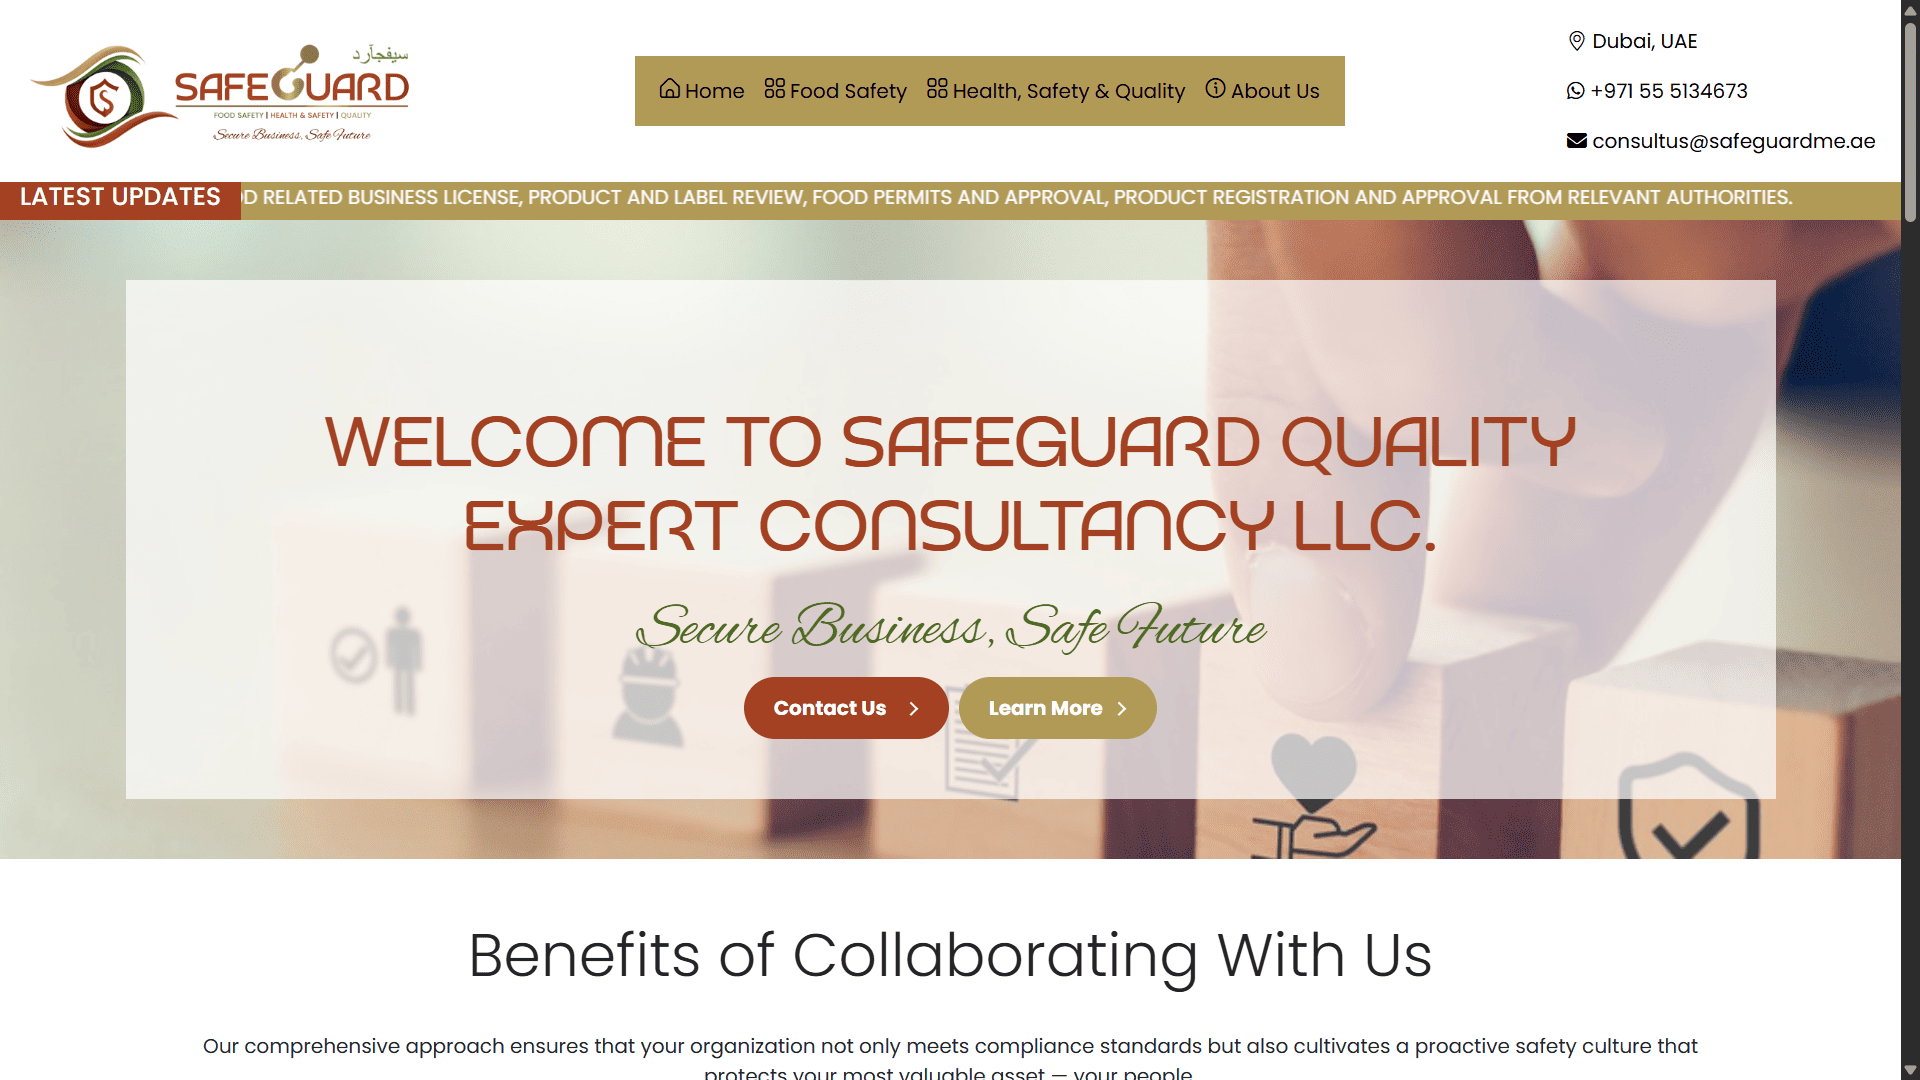
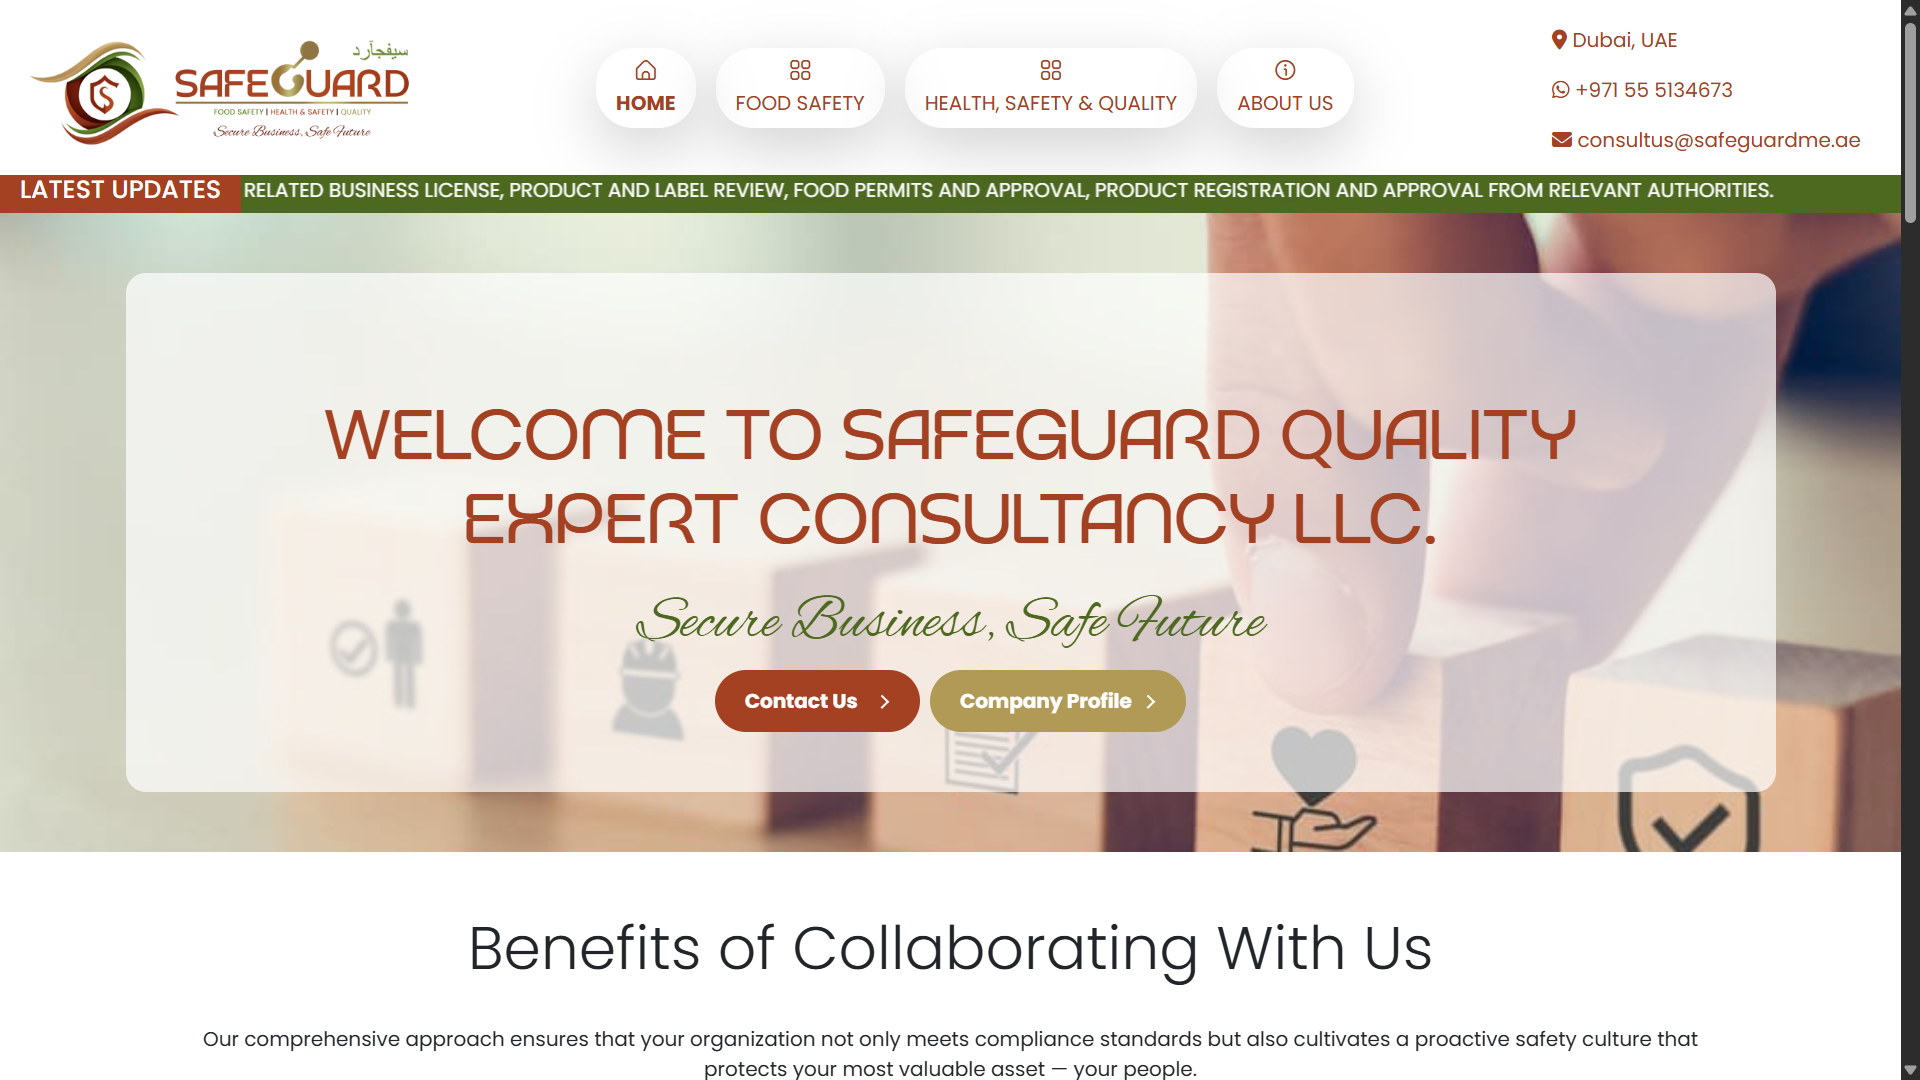
latest commit
-added freelance section
-updated projects
-removed AOS delays
-added new image for safeguard project
-added active scroll class
-updated active scroll class styling

diff --git a/index.html b/index.html
@@ -28,7 +28,7 @@
           <div class="collapse navbar-collapse" id="navbarText">
             <ul class="navbar-nav mb-2 mb-lg-0">
               <li class="nav-item px-1">
-                <a class="nav-link fs-5 fw-bold px-3" aria-current="page" href="#home-section">Home</a>
+                <a class="nav-link fs-5 fw-bold px-3 shadow-lg" aria-current="page" href="#home-section">Home</a>
               </li>
               <li class="nav-item px-1">
                 <a class="nav-link fs-5 fw-bold px-3" aria-current="page" href="#about-section">About</a>
@@ -45,6 +45,7 @@
       </nav>
     </header>
   </section>
+  <div data-bs-spy="scroll" data-bs-smooth-scroll="true" tabindex="0">
   <section id="home-section" class="py-5">
     <main>
       <div class="container px-4 py-5">
@@ -74,7 +75,7 @@
         </div>
         <div class="row text-center row-cols-1 row-cols-sm-2 row-cols-xl-4 g-4 m-0">
           <div class="col">
-            <div class="card h-100" data-aos="fade-up" data-aos-delay="0">
+            <div class="card h-100" data-aos="fade-up">
               <div class="card-body">
                 <i class="bi bi-phone-fill display-6"></i>
                 <h5 class="card-title">Responsive Design</h5>
@@ -84,7 +85,7 @@
             </div>
           </div>
           <div class="col">
-            <div class="card h-100" data-aos="fade-up" data-aos-delay="100">
+            <div class="card h-100" data-aos="fade-up">
               <div class="card-body">
                 <i class="bi bi-code-slash display-6"></i>
                 <h5 class="card-title">Frontend Development</h5>
@@ -93,7 +94,7 @@
             </div>
           </div>
           <div class="col">
-            <div class="card h-100" data-aos="fade-up" data-aos-delay="200">
+            <div class="card h-100" data-aos="fade-up">
               <div class="card-body">
                 <i class="bi bi-git display-6"></i>
                 <h5 class="card-title">Version Control</h5>
@@ -102,7 +103,7 @@
             </div>
           </div>
           <div class="col">
-            <div class="card h-100" data-aos="fade-up" data-aos-delay="300">
+            <div class="card h-100" data-aos="fade-up">
               <div class="card-body">
                 <i class="bi bi-people-fill display-6"></i>
                 <h5 class="card-title">Team Collaboration</h5>
@@ -133,6 +134,52 @@
       </div>
     </main>
   </section>
+  <section id="projects-section freelance-section" class="py-5">
+    <main>
+      <div class="container px-4 py-5" data-aos="fade-up">
+        <div class="row text-center m-0">
+          <h2 class="section-head display-6 fw-bold">Freelance Works</h2>
+        </div>
+        <div class="row row-cols-1 row-cols-md-2 row-cols-xl-3 g-4 m-0">
+          <div class="col">
+            <div class="card project-card freelance-card h-100" data-aos="fade-up">
+              <div class="card-img-wrapper">
+                <img src="./imgs/safeguard.png" class="card-img-top" alt="safeguard-landing-page">
+                <a href="https://safeguardme.ae" class="live-link-btn">View Live</a>
+              </div>
+              <div class="card-body">
+                <h5 class="card-title">Safeguard Quality Expert Consultancy LLC.</h5>
+                <p class="card-text">Website design for a consultancy firm (Food Safety and Health & Safety) based in Dubai, U.A.E.</p>
+                <!-- <div class="d-flex flex-wrap gap-2">
+                  <span class="badge">HTML</span>
+                  <span class="badge">CSS (Bootstrap)</span>
+                  <span class="badge">JavaScript</span>
+                </div> -->
+              </div>
+            </div>
+          </div>
+          <div class="col">
+            <div class="card project-card freelance-card h-100" data-aos="fade-up">
+              <div class="card-img-wrapper">
+                <img src="./imgs/twelvetotwelve.png" class="card-img-top" alt="12-to-12-landing-page">
+                <a href="https://levinmathewabraham.github.io/12-To-12-DownTown/" class="live-link-btn">View Live</a>
+              </div>
+              <div class="card-body">
+                <h5 class="card-title">12 To 12 Downtown Restaurant</h5>
+                <p class="card-text">Website design for a multi-cuisine restaurant based in Kerala, India.</p>
+                <!-- <div class="d-flex flex-wrap gap-2">
+                  <span class="badge">HTML</span>
+                  <span class="badge">CSS (Bootstrap)</span>
+                  <span class="badge">JavaScript</span>
+                </div> -->
+              </div>
+            </div>
+          </div>
+        </div>
+      </div>
+    </main>
+  </section>
+
   <section id="projects-section" class="py-5">
     <main>
       <div class="container px-4 py-5" data-aos="fade-up">
@@ -141,24 +188,7 @@
         </div>
         <div class="row row-cols-1 row-cols-md-2 row-cols-xl-3 g-4 m-0">
           <div class="col">
-            <div class="card project-card h-100" data-aos="fade-up" data-aos-delay="0">
-              <div class="card-img-wrapper">
-                <img src="./imgs/safeguard.png" class="card-img-top" alt="safeguard-landing-page">
-                <a href="https://safeguardme.ae" class="live-link-btn">View Live</a>
-              </div>
-              <div class="card-body">
-                <h5 class="card-title">Safeguard Quality Expert Consultancy LLC.</h5>
-                <p class="card-text">Website design for a consultancy firm (Food Safety and Health & Safety) based in Dubai, U.A.E.</p>
-                <div class="d-flex flex-wrap gap-2">
-                  <span class="badge">HTML</span>
-                  <span class="badge">CSS (Bootstrap)</span>
-                  <span class="badge">JavaScript</span>
-                </div>
-              </div>
-            </div>
-          </div>
-          <div class="col">
-            <div class="card project-card h-100" data-aos="fade-up" data-aos-delay="100">
+            <div class="card project-card h-100" data-aos="fade-up">
               <div class="card-img-wrapper">
                 <img src="./imgs/moodsync.png" class="card-img-top" alt="moodsync-landing-page">
                 <a href="https://mental-health-app-frontend.onrender.com" class="live-link-btn">View Live</a>
@@ -175,24 +205,7 @@
             </div>
           </div>
           <div class="col">
-            <div class="card project-card h-100" data-aos="fade-up" data-aos-delay="200">
-              <div class="card-img-wrapper">
-                <img src="./imgs/twelvetotwelve.png" class="card-img-top" alt="12-to-12-landing-page">
-                <a href="https://levinmathewabraham.github.io/12-To-12-DownTown/" class="live-link-btn">View Live</a>
-              </div>
-              <div class="card-body">
-                <h5 class="card-title">12 To 12 Downtown Restaurant</h5>
-                <p class="card-text">Website design for a multi-cuisine restaurant based in Kottayam, Kerala.</p>
-                <div class="d-flex flex-wrap gap-2">
-                  <span class="badge">HTML</span>
-                  <span class="badge">CSS (Bootstrap)</span>
-                  <span class="badge">JavaScript</span>
-                </div>
-              </div>
-            </div>
-          </div>
-          <div class="col">
-            <div class="card project-card h-100" data-aos="fade-up" data-aos-delay="300">
+            <div class="card project-card h-100" data-aos="fade-up">
               <div class="card-img-wrapper">
                 <img src="./imgs/homehealthcare.png" class="card-img-top" alt="hhs-landing-page">
                 <a href="https://github.com/levinmathewabraham/Home-Healthcare-Service-Platform" class="live-link-btn">GitHub Repo</a>
@@ -211,7 +224,7 @@
             </div>
           </div>
           <div class="col">
-            <div class="card project-card h-100" data-aos="fade-up" data-aos-delay="400">
+            <div class="card project-card h-100" data-aos="fade-up">
               <div class="card-img-wrapper">
                 <img src="./imgs/portfolio.png" class="card-img-top" alt="portfolio-landing-page">
                 <a href="https://levinmathewabraham.github.io/my-portfolio/" class="live-link-btn">View Live</a>
@@ -240,7 +253,7 @@
         </div>
         <div class="row g-3 m-0">
           <div class="col-12">
-            <div class="card p-4 h-100" data-aos="fade-right" data-aos-delay="100">
+            <div class="card p-4 h-100" data-aos="fade-right">
               <div class="d-flex gap-4 justify-content-center">
                   <a href="https://www.instagram.com/levi.nnnnnn/" class="socialContainer instagram">
                     <svg class="socialSvg instagramSvg" viewBox="0 0 16 16"> <path d="M8 0C5.829 0 5.556.01 4.703.048 3.85.088 3.269.222 2.76.42a3.917 3.917 0 0 0-1.417.923A3.927 3.927 0 0 0 .42 2.76C.222 3.268.087 3.85.048 4.7.01 5.555 0 5.827 0 8.001c0 2.172.01 2.444.048 3.297.04.852.174 1.433.372 1.942.205.526.478.972.923 1.417.444.445.89.719 1.416.923.51.198 1.09.333 1.942.372C5.555 15.99 5.827 16 8 16s2.444-.01 3.298-.048c.851-.04 1.434-.174 1.943-.372a3.916 3.916 0 0 0 1.416-.923c.445-.445.718-.891.923-1.417.197-.509.332-1.09.372-1.942C15.99 10.445 16 10.173 16 8s-.01-2.445-.048-3.299c-.04-.851-.175-1.433-.372-1.941a3.926 3.926 0 0 0-.923-1.417A3.911 3.911 0 0 0 13.24.42c-.51-.198-1.092-.333-1.943-.372C10.443.01 10.172 0 7.998 0h.003zm-.717 1.442h.718c2.136 0 2.389.007 3.232.046.78.035 1.204.166 1.486.275.373.145.64.319.92.599.28.28.453.546.598.92.11.281.24.705.275 1.485.039.843.047 1.096.047 3.231s-.008 2.389-.047 3.232c-.035.78-.166 1.203-.275 1.485a2.47 2.47 0 0 1-.599.919c-.28.28-.546.453-.92.598-.28.11-.704.24-1.485.276-.843.038-1.096.047-3.232.047s-2.39-.009-3.233-.047c-.78-.036-1.203-.166-1.485-.276a2.478 2.478 0 0 1-.92-.598 2.48 2.48 0 0 1-.6-.92c-.109-.281-.24-.705-.275-1.485-.038-.843-.046-1.096-.046-3.233 0-2.136.008-2.388.046-3.231.036-.78.166-1.204.276-1.486.145-.373.319-.64.599-.92.28-.28.546-.453.92-.598.282-.11.705-.24 1.485-.276.738-.034 1.024-.044 2.515-.045v.002zm4.988 1.328a.96.96 0 1 0 0 1.92.96.96 0 0 0 0-1.92zm-4.27 1.122a4.109 4.109 0 1 0 0 8.217 4.109 4.109 0 0 0 0-8.217zm0 1.441a2.667 2.667 0 1 1 0 5.334 2.667 2.667 0 0 1 0-5.334z"></path> </svg>
@@ -265,7 +278,7 @@
             </div>
           </div>
           <div class="col-12">
-            <div class="card p-4 h-100" data-aos="fade-right" data-aos-delay="200">
+            <div class="card p-4 h-100" data-aos="fade-right">
               <form action="https://formspree.io/f/xqabwwrd" method="POST">
                 <div class="row g-2 m-0">
                   <div class="col-12">
@@ -291,6 +304,7 @@
       </div>
     </main>
   </section>
+  </div>
   <section id="footer-section" class="py-2">
       <footer>
           <div class="container">

diff --git a/css/index.css b/css/index.css
@@ -34,6 +34,13 @@ body {
     transform: scale(1.05);
 }
 
+.active {
+    color: var(--hover-color) !important;
+    background-color: var(--primary-color);
+    border-radius: 50px;
+    transform: scale(1.05);
+}
+
 .navbar-brand:hover {
     color: var(--hover-color);
 }
